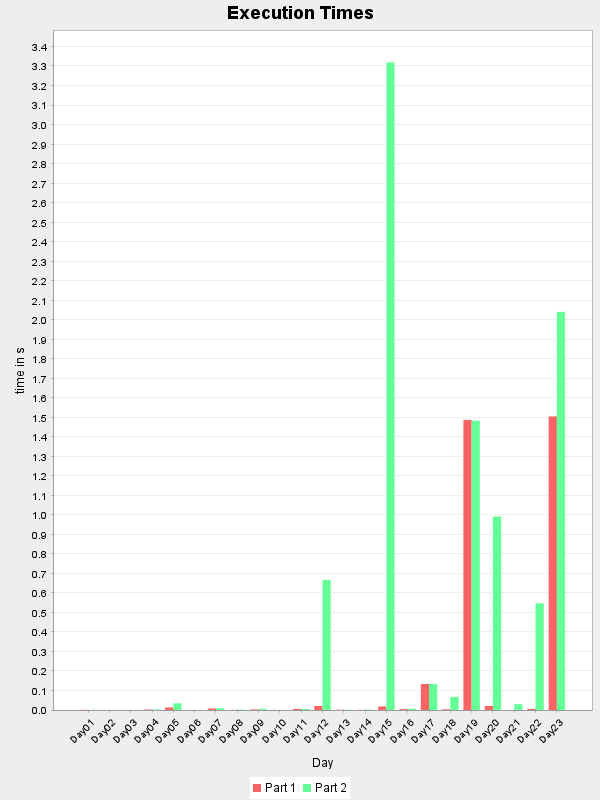
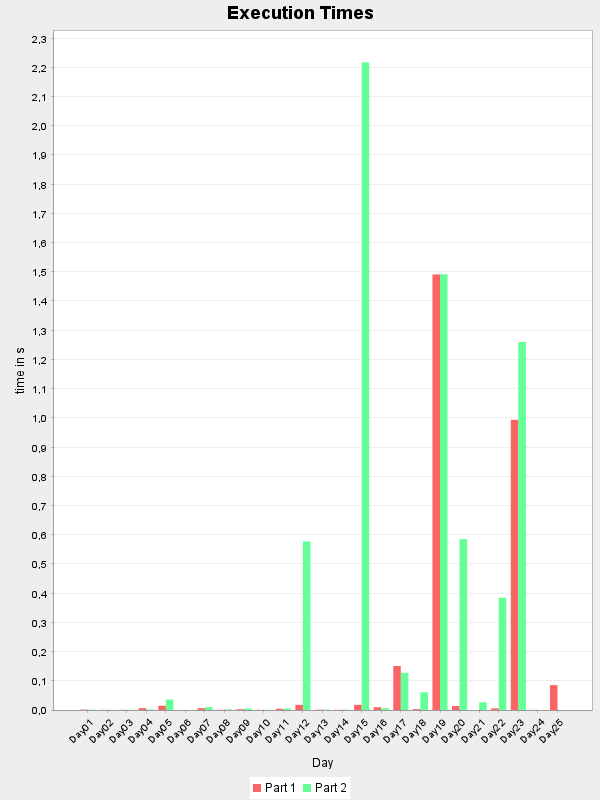
Day25

diff --git a/src/Day25.kt b/src/Day25.kt
@@ -1,0 +1,69 @@
+object Day25 : Day() {
+    override val part1 = object : Part<Int>(58) {
+        override fun solve(input: List<String>): Int {
+            val map = input.map {
+                it.toCharArray().map {
+                    when (it) {
+                        '>' -> Direction.RIGHT
+                        'v' -> Direction.DOWN
+                        else -> null
+                    }
+                }
+            }.let(::Map)
+
+            return generateSequence(2) { it + 1 }.takeWhile { map.next() }.last()
+        }
+    }
+
+    override val part2 = object : Part<Unit>(Unit, skipTest = true) {
+        override fun solve(input: List<String>) {}
+    }
+
+    class Map(private var raw: List<List<Direction?>>) {
+
+        private val maxX = raw[0].size
+        private val maxY = raw.size
+
+        override fun toString() = raw.map { it.map { it.toString() }.joinToString("") }.joinToString("\n")
+
+        fun next(): Boolean {
+            val result = raw.map { it.toMutableList() }.toMutableList()
+
+            var moves = 0
+
+            for (direction in Direction.values()) {
+                raw.forEachIndexed { y, row ->
+                    row.forEachIndexed { x, current ->
+                        if (current == direction) {
+                            val newX = (x + direction.dx) % maxX
+                            val newY = (y + direction.dy) % maxY
+
+                            if (raw[newY][newX] == null) {
+                                result[newY][newX] = direction
+                                result[y][x] = null
+                                moves++
+                            }
+                        }
+                    }
+                }
+
+                raw = result.map { it.toList() }.toList()
+            }
+
+            return moves != 0
+        }
+    }
+
+    enum class Direction(val dx: Int, val dy: Int) {
+        RIGHT(1, 0),
+        DOWN(0, 1),
+        ;
+    }
+
+    fun Direction?.toString() =
+        when (this) {
+            null -> '.'
+            Direction.DOWN -> 'v'
+            Direction.RIGHT -> '>'
+        }.toString()
+}

diff --git a/src/ReflectUtils.kt b/src/ReflectUtils.kt
@@ -7,7 +7,7 @@ fun classForNameOrNull(name: String): Class<*>? {
 }
 
 fun dayClasses() =
-    IntRange(0, 24)
+    IntRange(0, 25)
         .mapNotNull { classForNameOrNull("Day%02d".format(it)) }
 
 fun Class<*>.invoke(name: String) {
